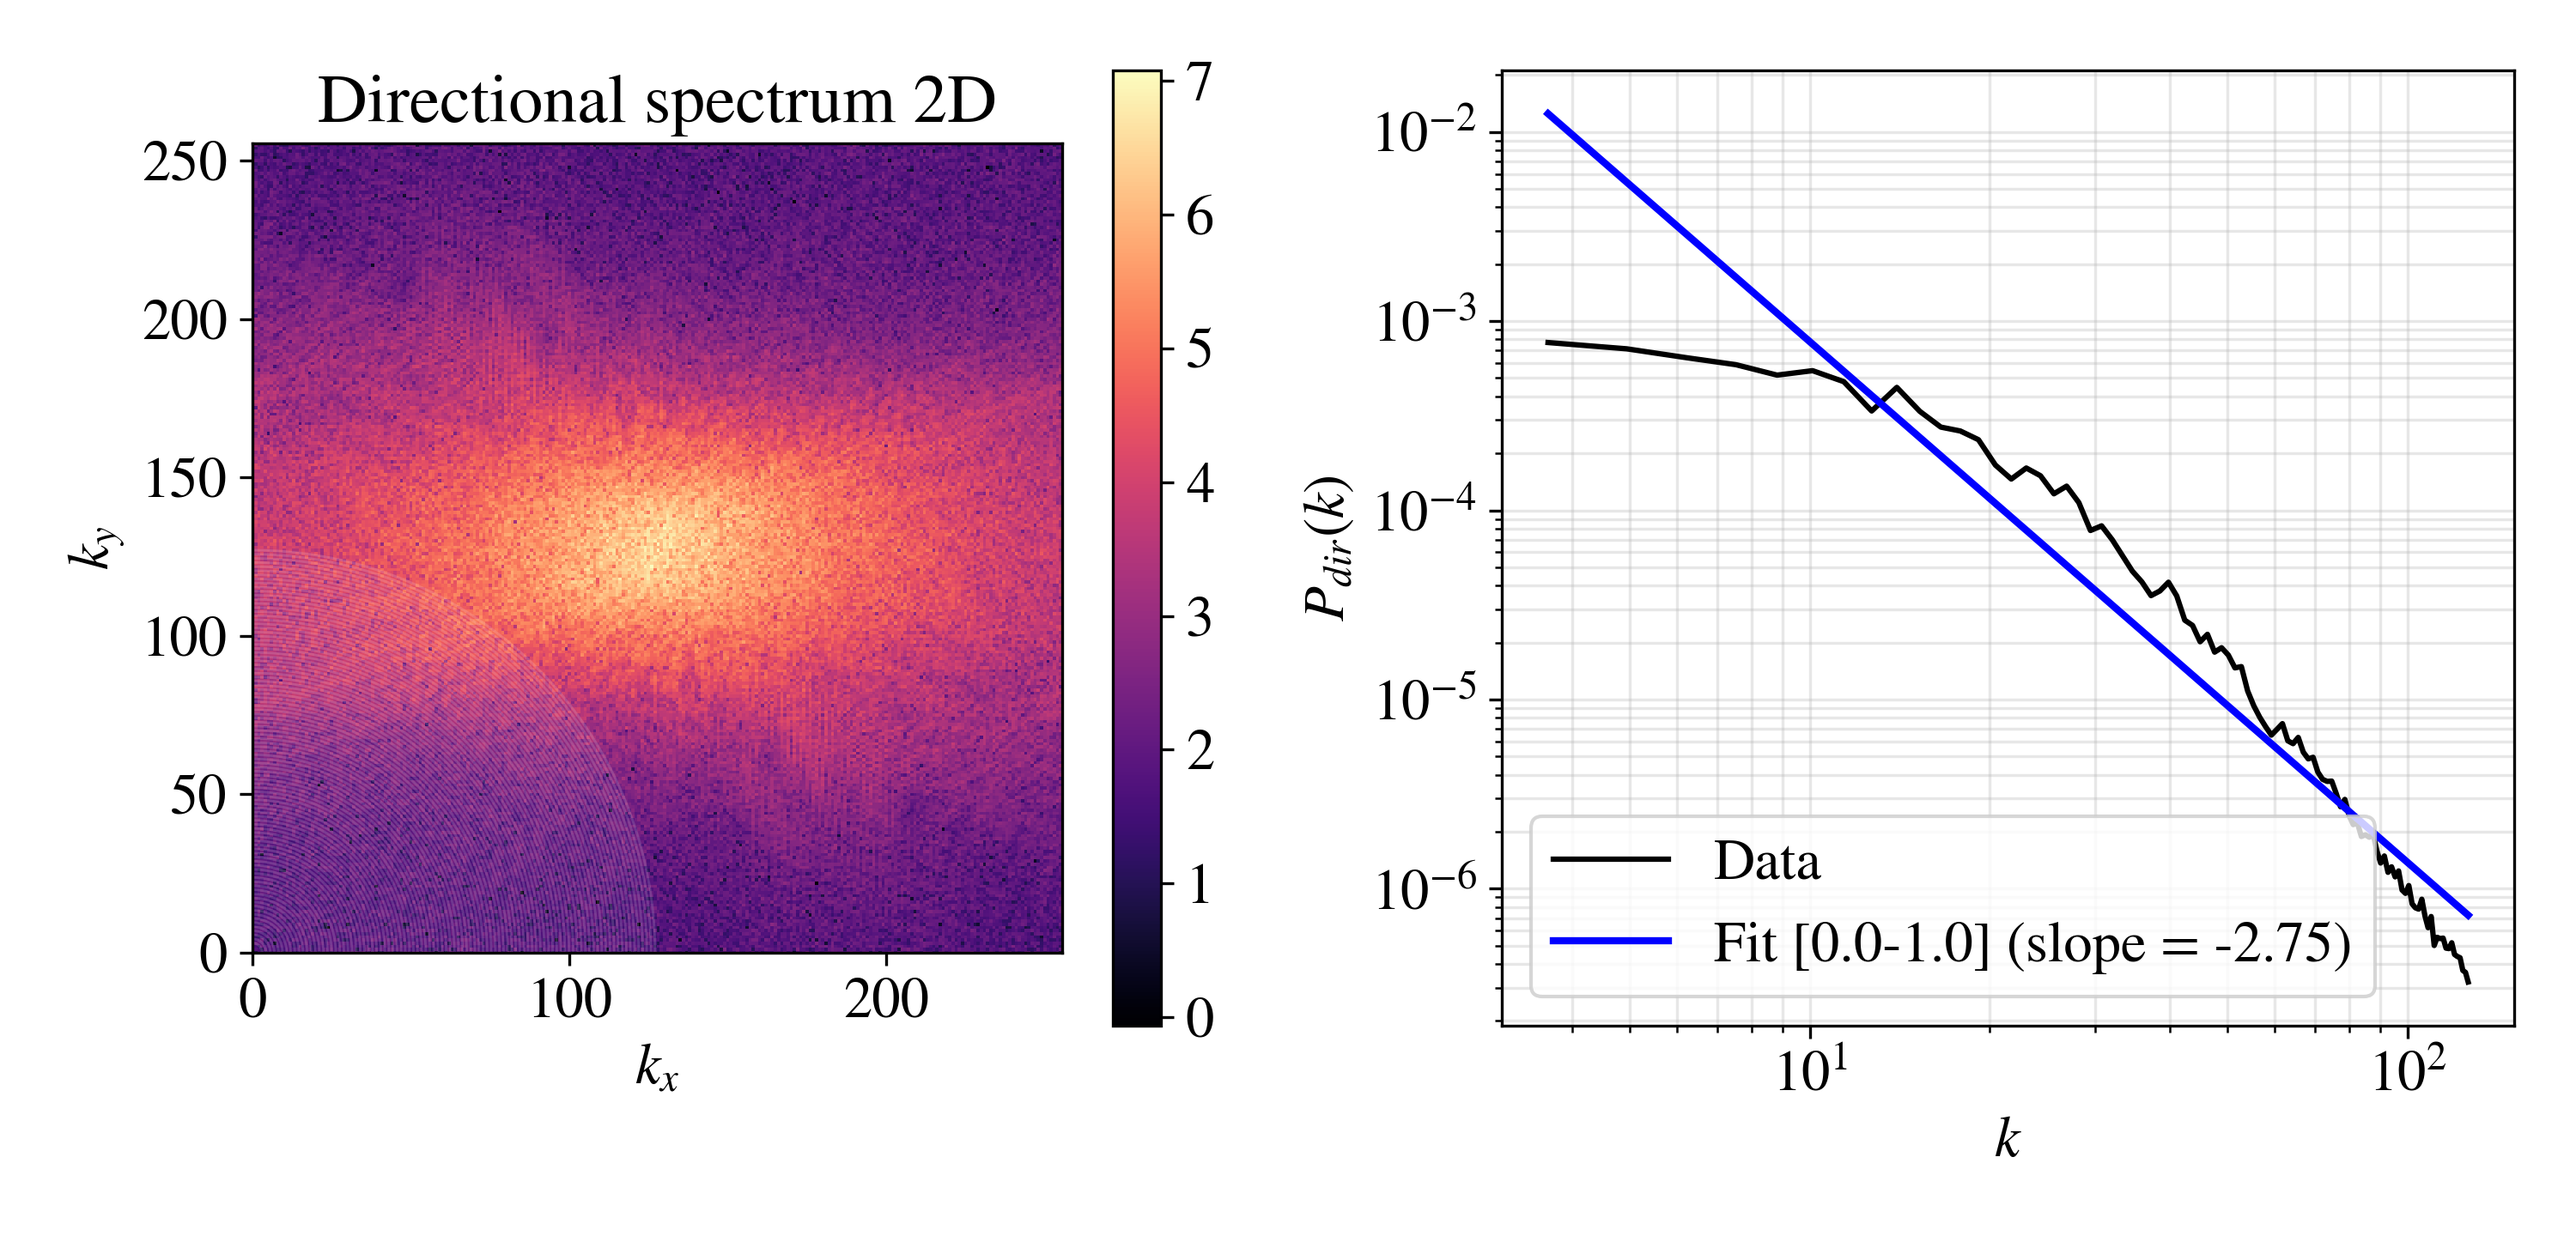
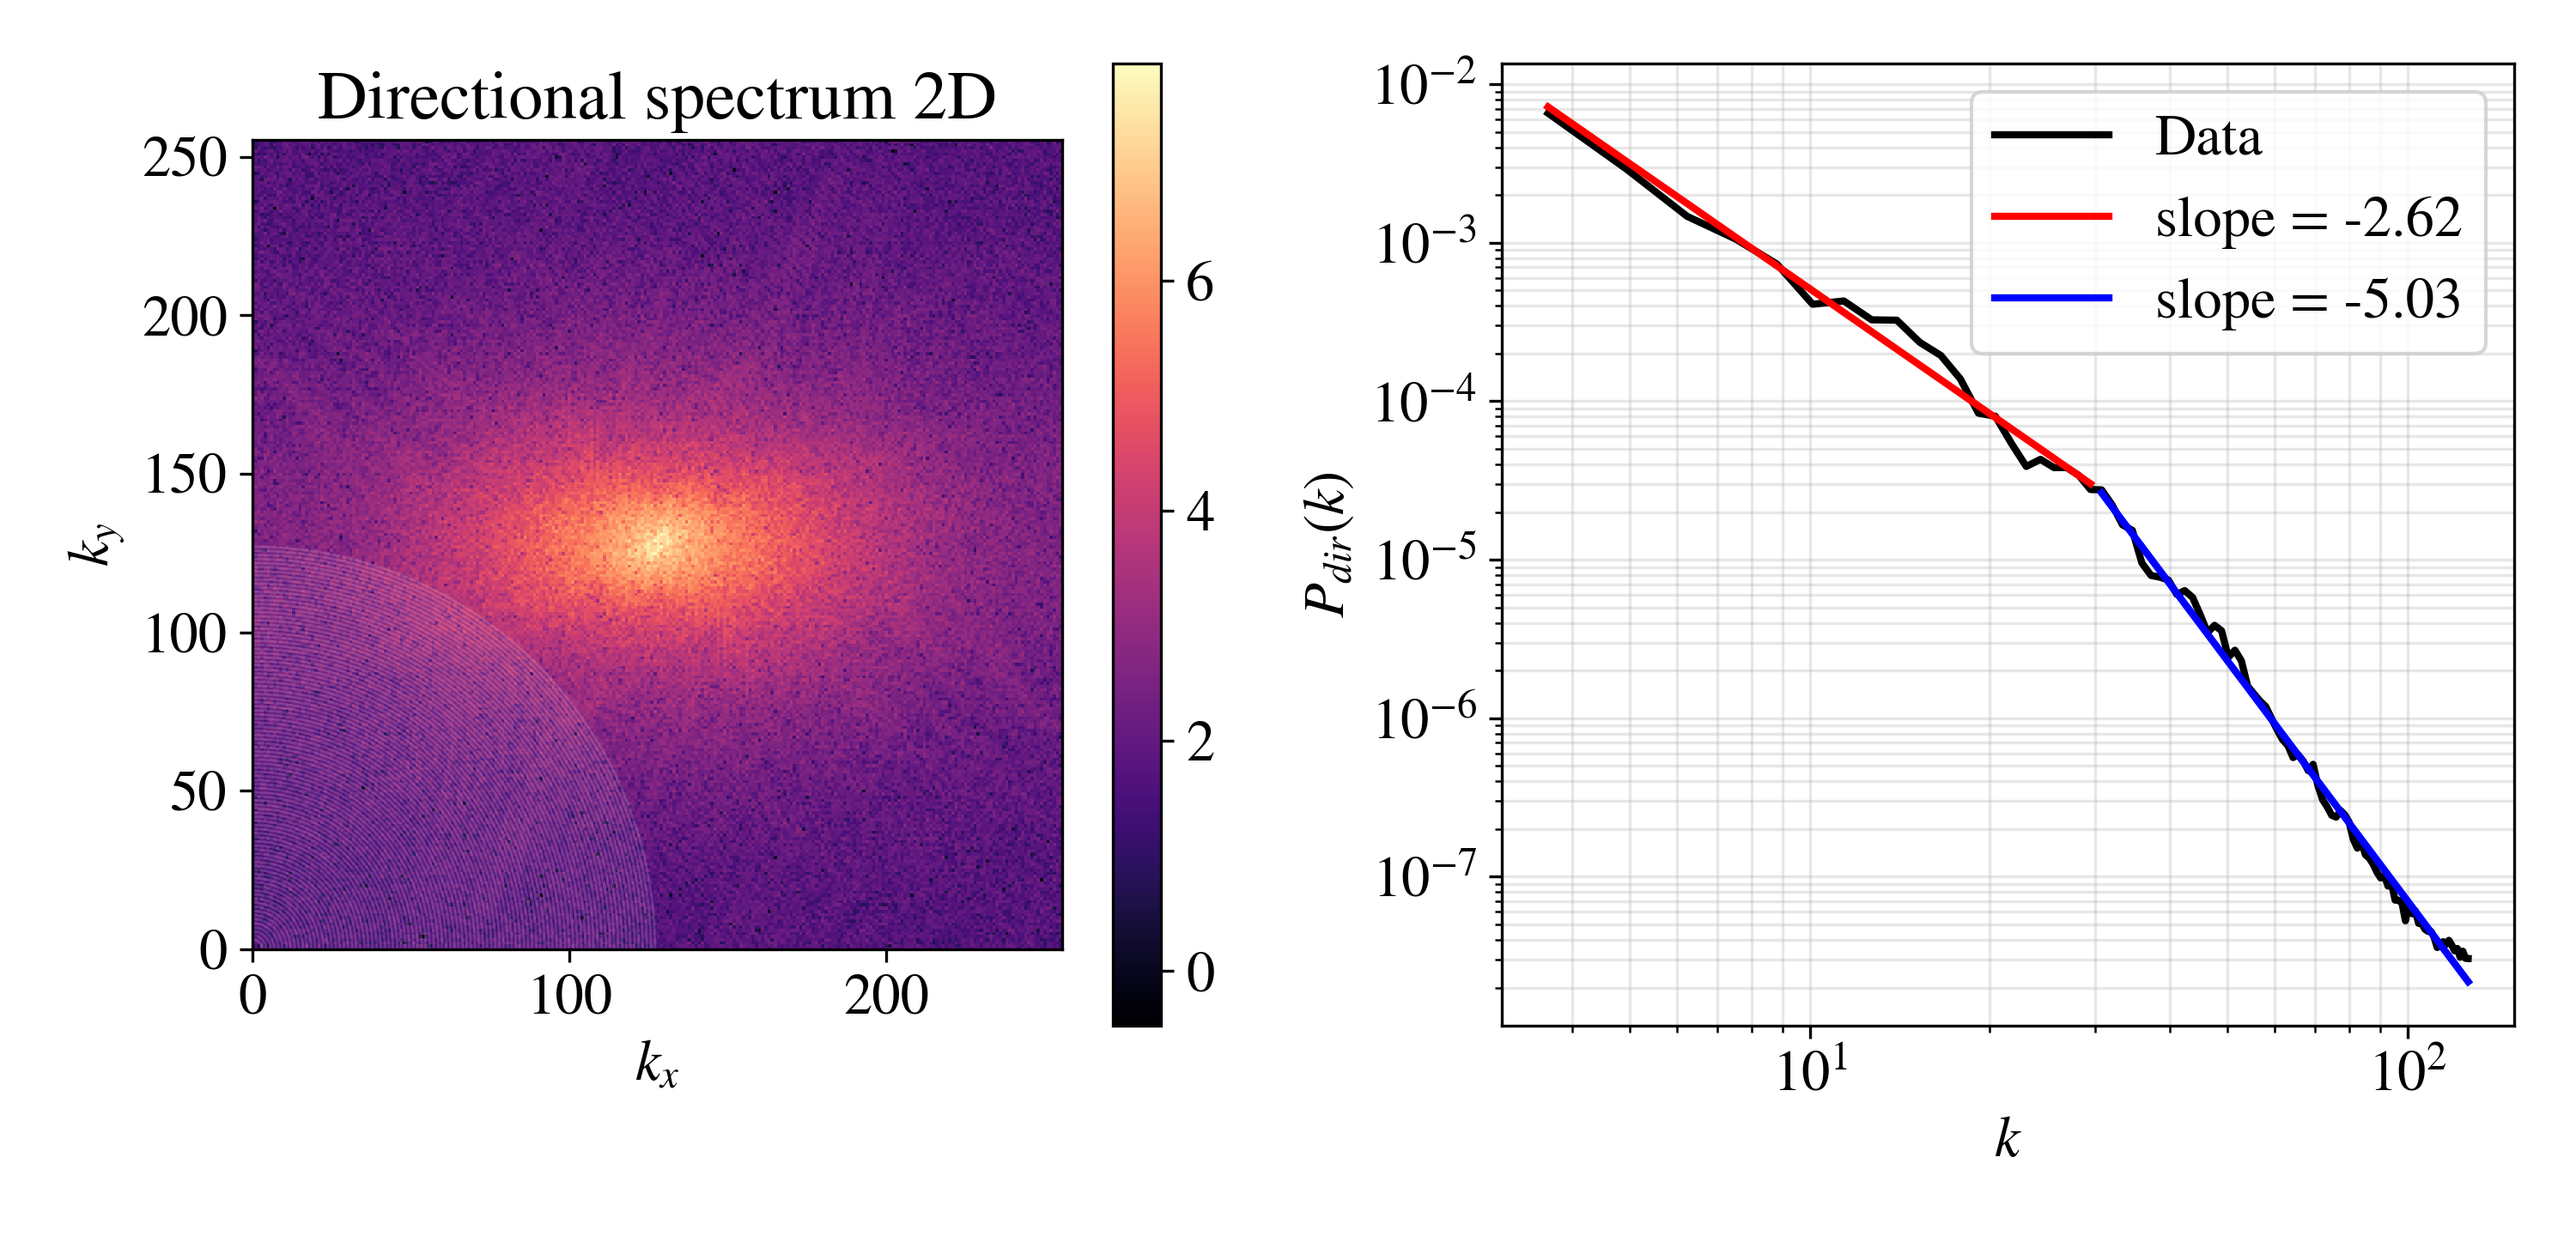
Dynamical slope selection for transitional regime

diff --git a/compare_measures/directional_spectrum/directional_spectrum_single_lambda.py b/compare_measures/directional_spectrum/directional_spectrum_single_lambda.py
@@ -4,7 +4,7 @@ import h5py, matplotlib.pyplot as plt
 h5_path = r"D:\Рабочая папка\GitHub\AstroTurbulence\faradays_angles_stats\lp_structure_tests\ms01ma08.mhd_w.00300.vtk.h5"
 los_axis = 2
 C = 1.0
-lam = 1.6#2.1
+lam = 1#2.1
 emit_frac = (0.15, 1.00)
 screen_frac = (0.00, 0.10)
 ring_bins = 48*2
@@ -175,12 +175,12 @@ def plot_fit(ax, kc, Pdir, frac_min, frac_max, color, isPlot=True, linestyle='-'
         
         if isPlot:
             ax.loglog(k_fit_line, P_fit_line, linestyle=linestyle, lw=2, color=color,
-                       label=f'{label_prefix} [{frac_min:.1f}-{frac_max:.1f}] (slope = {slope:.2f})')
+                       label=f'slope = {slope:.2f}')
         return intercept, slope
     return None
 
 ax2 = plt.subplot(1,2,2)
-ax2.loglog(kc, Pdir, '-', color='black', ms=4, lw=1.5, label='Data')
+ax2.loglog(kc, Pdir, '-', color='black', ms=4, lw=2, label='Data')
 
 
 alphas = []
@@ -238,10 +238,48 @@ print("best:", best)
 # plt.show()
 
 
-x1=0.3
-# plot_fit(ax2, kc, Pdir, 0, best, "green")
-# plot_fit(ax2, kc, Pdir, best, x1, "red")
-plot_fit(ax2, kc, Pdir, 0, 1.0, "blue")
+xv = np.linspace(0.05, 0.95, 200)
+k0, k1 = kc.min(), kc.max()
+yl, yr = [], []
+for x in xv:
+    a = plot_fit(ax2, kc, Pdir, 0, x, "r", isPlot=False)
+    b = plot_fit(ax2, kc, Pdir, x, 1.0, "b", isPlot=False)
+    if a and b:
+        kx = k0 + x*(k1-k0)
+        yl.append(np.exp(a[0]) * kx**a[1])
+        yr.append(np.exp(b[0]) * kx**b[1])
+    else:
+        yl.append(np.nan); yr.append(np.nan)
+
+xv = np.asarray(xv); yl = np.asarray(yl); yr = np.asarray(yr)
+m = np.isfinite(yl)&np.isfinite(yr)&(yl>0)&(yr>0)
+xv, yl, yr = xv[m], yl[m], yr[m]
+d = np.log(yl) - np.log(yr)
+idx = np.where(d[:-1]*d[1:]<=0)[0]
+xs, ys = [], []
+for i in idx:
+    x0,x1 = xv[i],xv[i+1]; d0,d1 = d[i],d[i+1]
+    t = 0 if d1==d0 else -d0/(d1-d0)
+    xs.append(x0 + (x1-x0)*t)
+    ys.append(np.exp(np.interp(xs[-1], [x0,x1], [np.log(yl[i]), np.log(yl[i+1])])))
+j = np.argmin(np.abs(np.array(xs)-0.18))
+print(f"x={xs[j]:.6f}, y={ys[j]:.6e}")
+
+
+
+x1=xs[j]
+plot_fit(ax2, kc, Pdir, 0, x1, "red")
+plot_fit(ax2, kc, Pdir, x1, 1.0, "blue")
+
+# plt.figure(figsize=(6,4))
+# plt.loglog(xv, yl, 'r-', label='left-end')
+# plt.loglog(xv, yr, 'b-', label='right-start')
+# plt.loglog([xs[j]], [ys[j]], 'ko', ms=6, label='intersection')
+# plt.xlabel("x1"); plt.ylabel("Y at junction k")
+# plt.xlim(0,1)
+# plt.legend(); plt.grid(True, which='both', alpha=0.3)
+# plt.tight_layout(); #plt.show()
+
 # plot_fit(ax2, kc, Pdir, 0.3, 1.0, "green")
 # plot_fit(ax2, kc, Pdir, 0.17, 1.0)
 # plot_fit(ax2, kc, Pdir, 0.6, 0.8)
@@ -256,7 +294,7 @@ ax2.set_ylabel("$P_{dir}(k)$")
 ax2.grid(True, which='both', alpha=0.3)
 plt.tight_layout()
 plt.savefig("directional.png", dpi=300)
-# plt.show()
+plt.show()
 
 plt.figure(figsize=(5.5,4.5))
 plt.plot(r, S_padc, '-', color="blue", ms=4)
